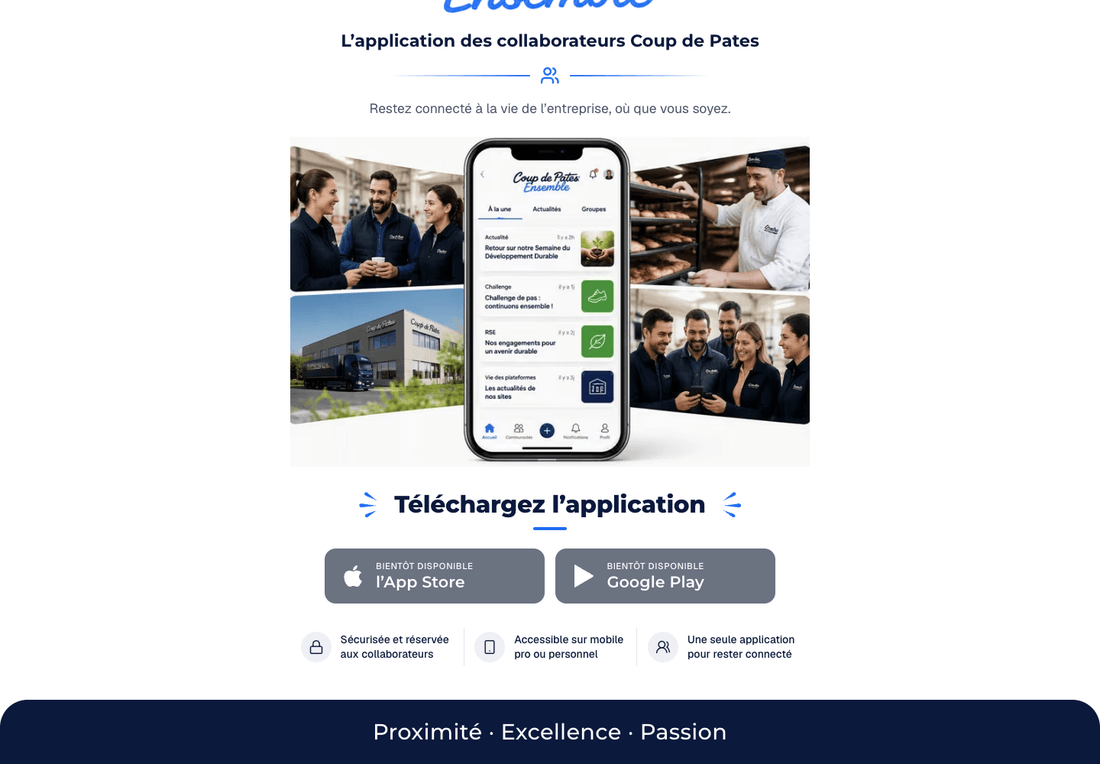
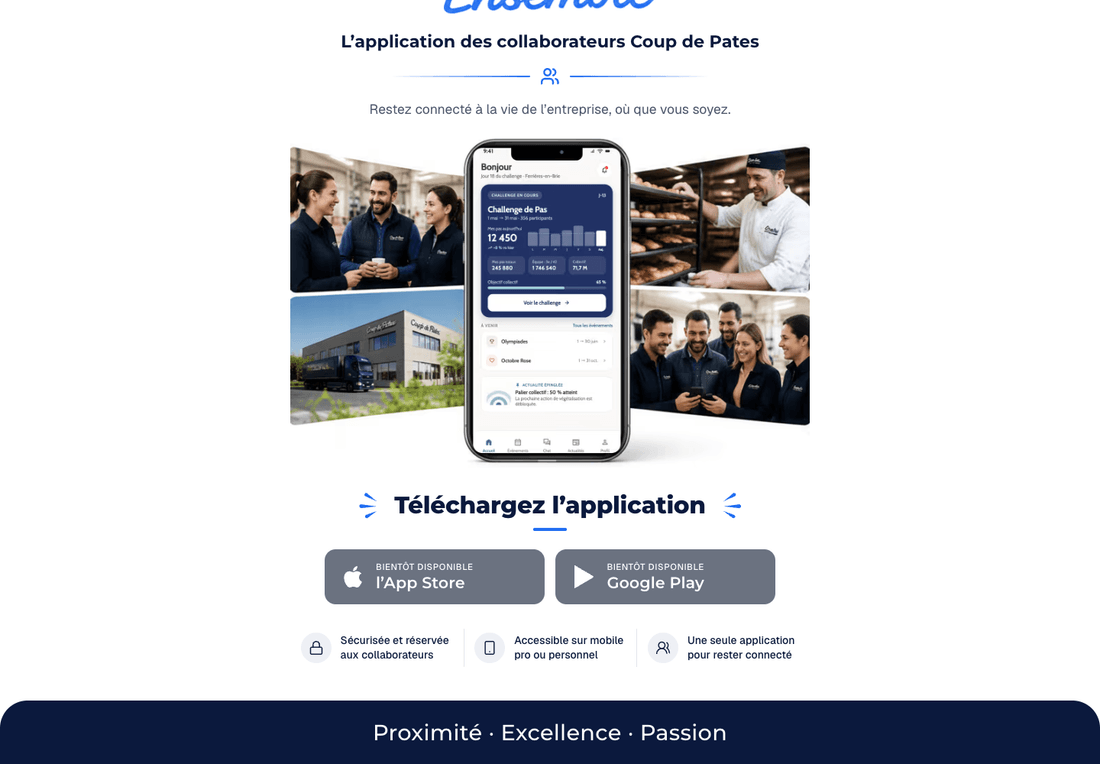
feat(coup-de-pates): show the real app home screen in the montage
The phone in the montage carried the mock-up's invented news feed. It now
carries the product's own home screen, taken from the app repo's reference
screens (cdp-app, docs/screens/02-accueil.png): the step challenge, the
upcoming events and the real tab bar.

- The demo first name is blanked out, so nobody's name is published on a
  page anyone with the link can open. "Bonjour" stands alone.
- The montage is exported at 2x (1500x952). The phone screen is composited
  at its own resolution instead of being upscaled with the photos, so the
  app is actually readable.
- The notch is redrawn over the screen and the corners are masked to the
  phone frame.
- Renamed to montage-accueil.webp: the URL change retires every cached copy
  of the old image, and the name now says what the montage shows.

diff --git a/src/components/coup-de-pates/EnsembleLanding.tsx b/src/components/coup-de-pates/EnsembleLanding.tsx
@@ -49,10 +49,10 @@ export function EnsembleLanding({ fontClassName }: { fontClassName: string }) {
         </p>
 
         <Image
-          src="/images/coup-de-pates-ensemble/app-montage.webp"
-          alt="L’application Coup de Pates Ensemble sur un téléphone, entourée de photos de collaborateurs, d’un site logistique et d’un boulanger au travail."
-          width={750}
-          height={476}
+          src="/images/coup-de-pates-ensemble/montage-accueil.webp"
+          alt="L’écran d’accueil de l’application Coup de Pates Ensemble sur un téléphone, entouré de photos de collaborateurs, d’un site logistique et d’un boulanger au travail."
+          width={1500}
+          height={952}
           priority
           sizes="(max-width: 752px) 100vw, 720px"
           className="cdpe-montage"
